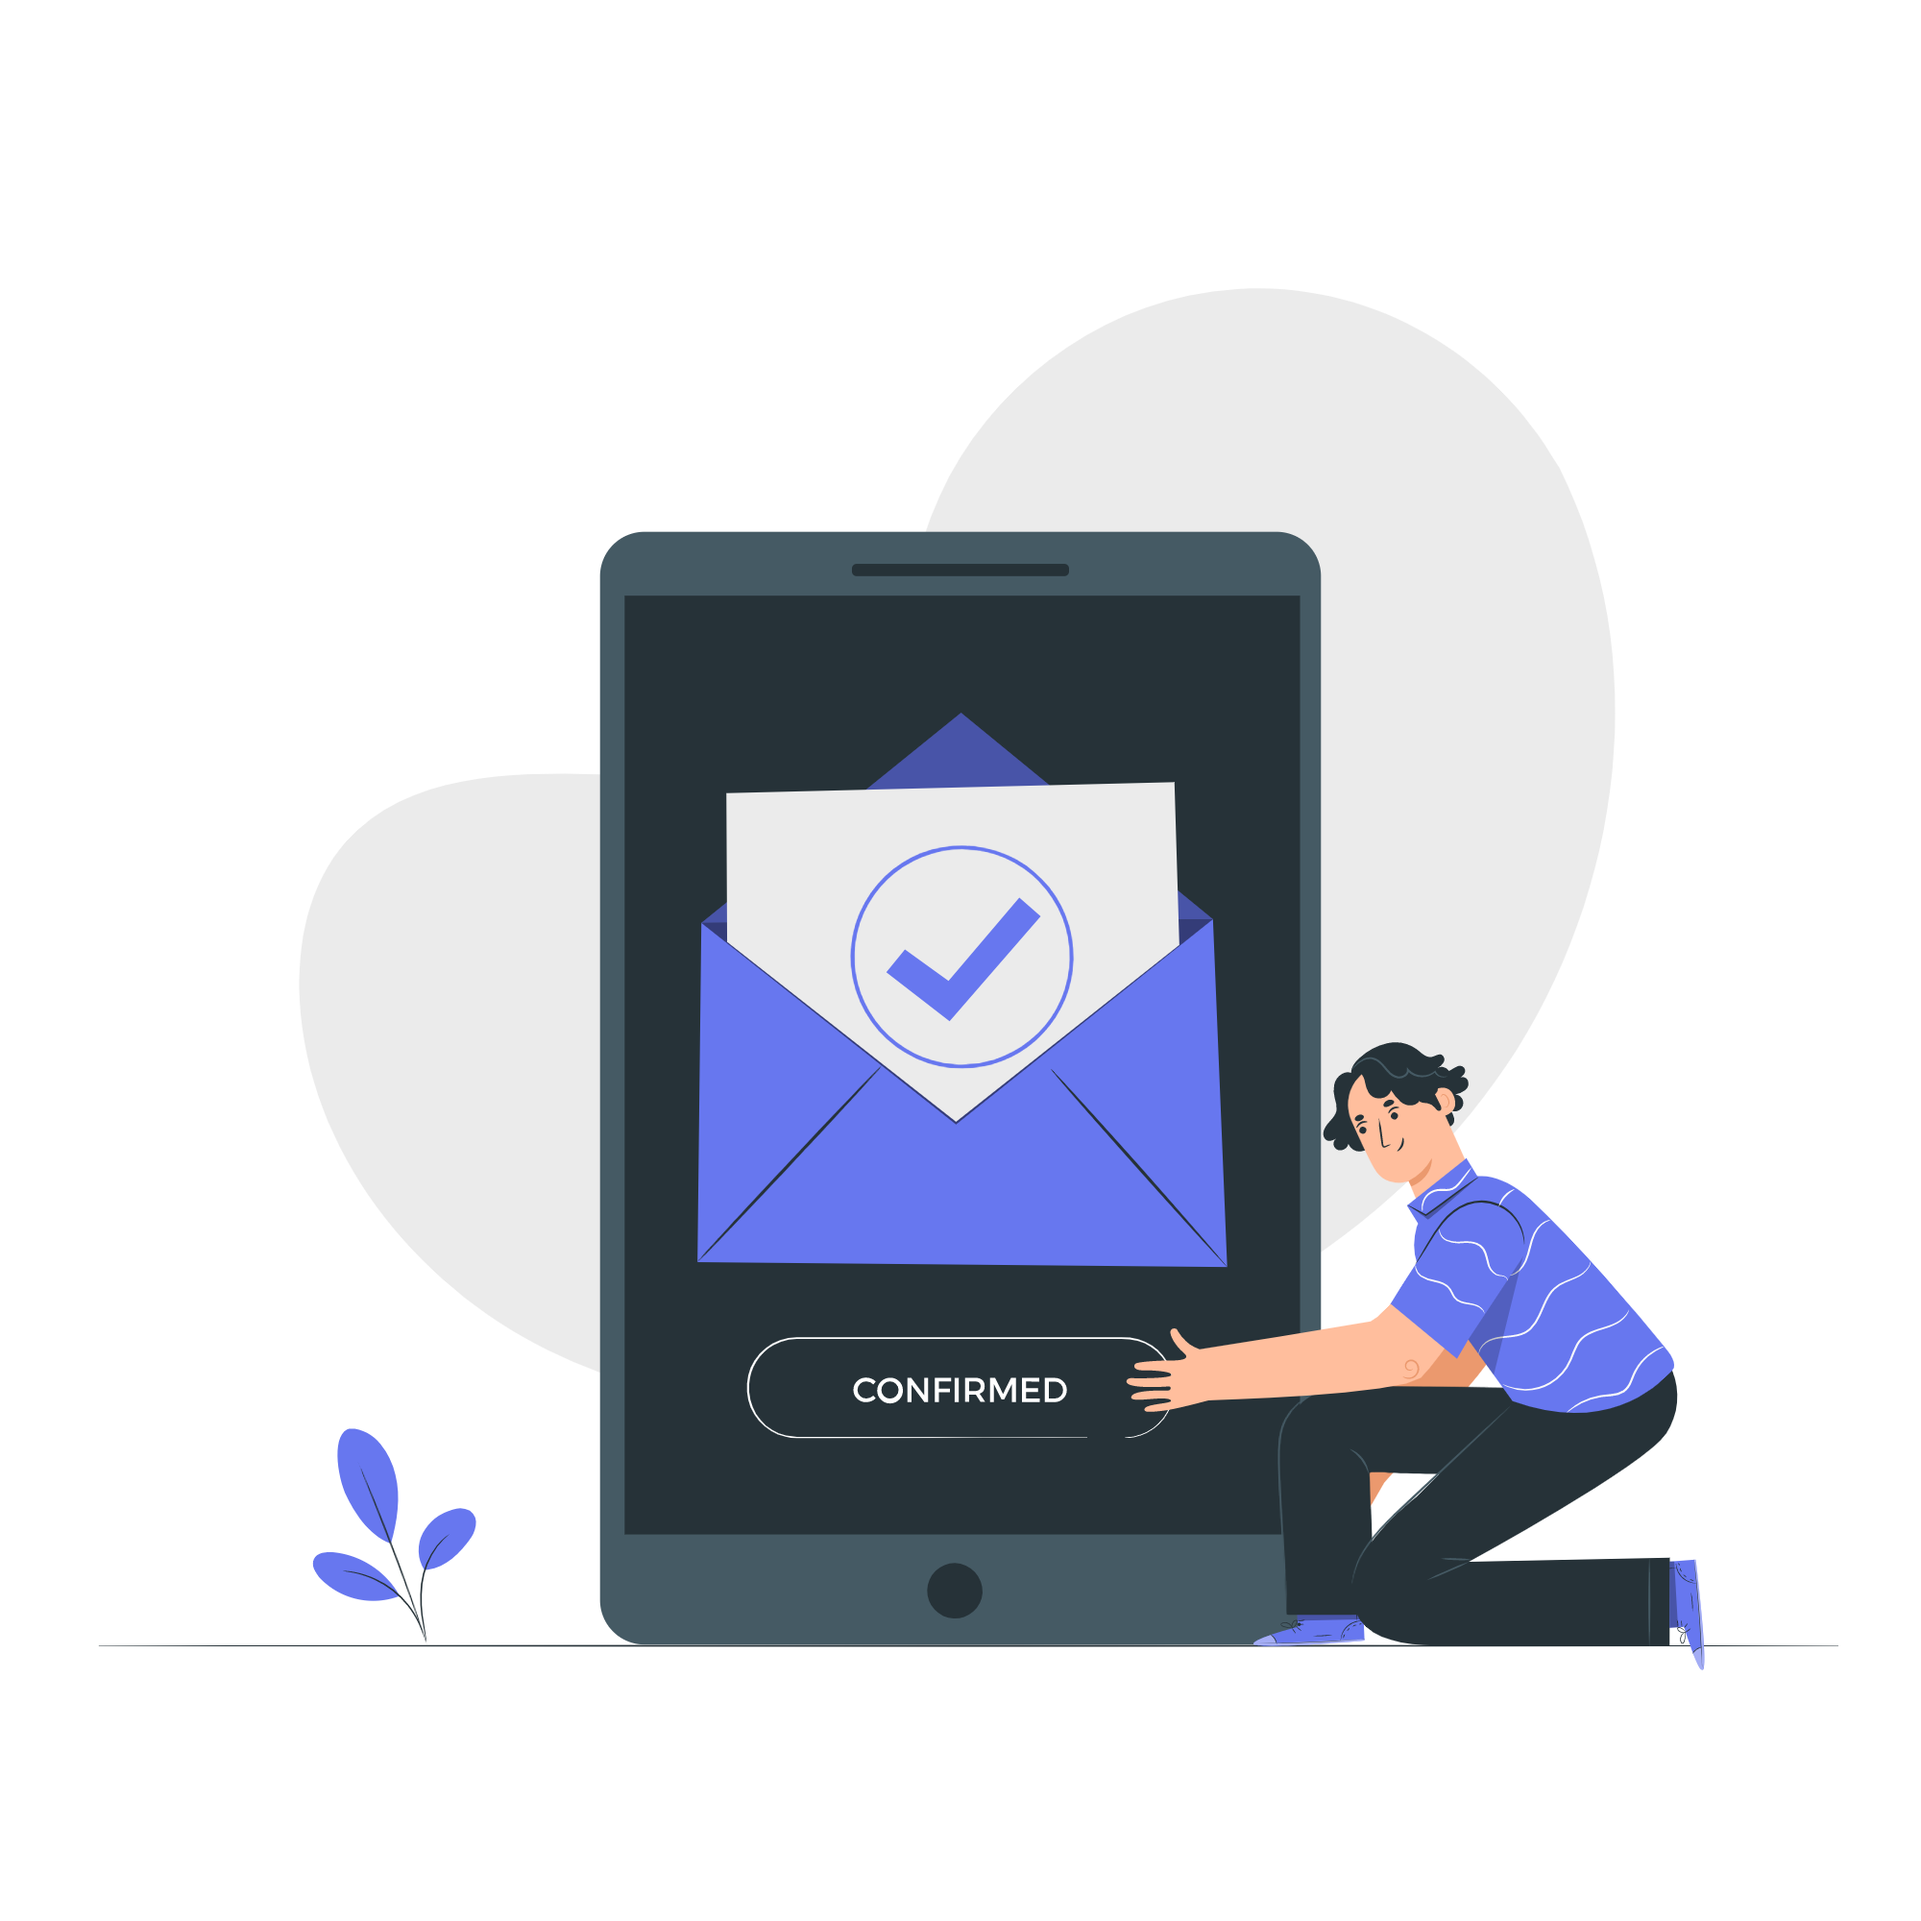
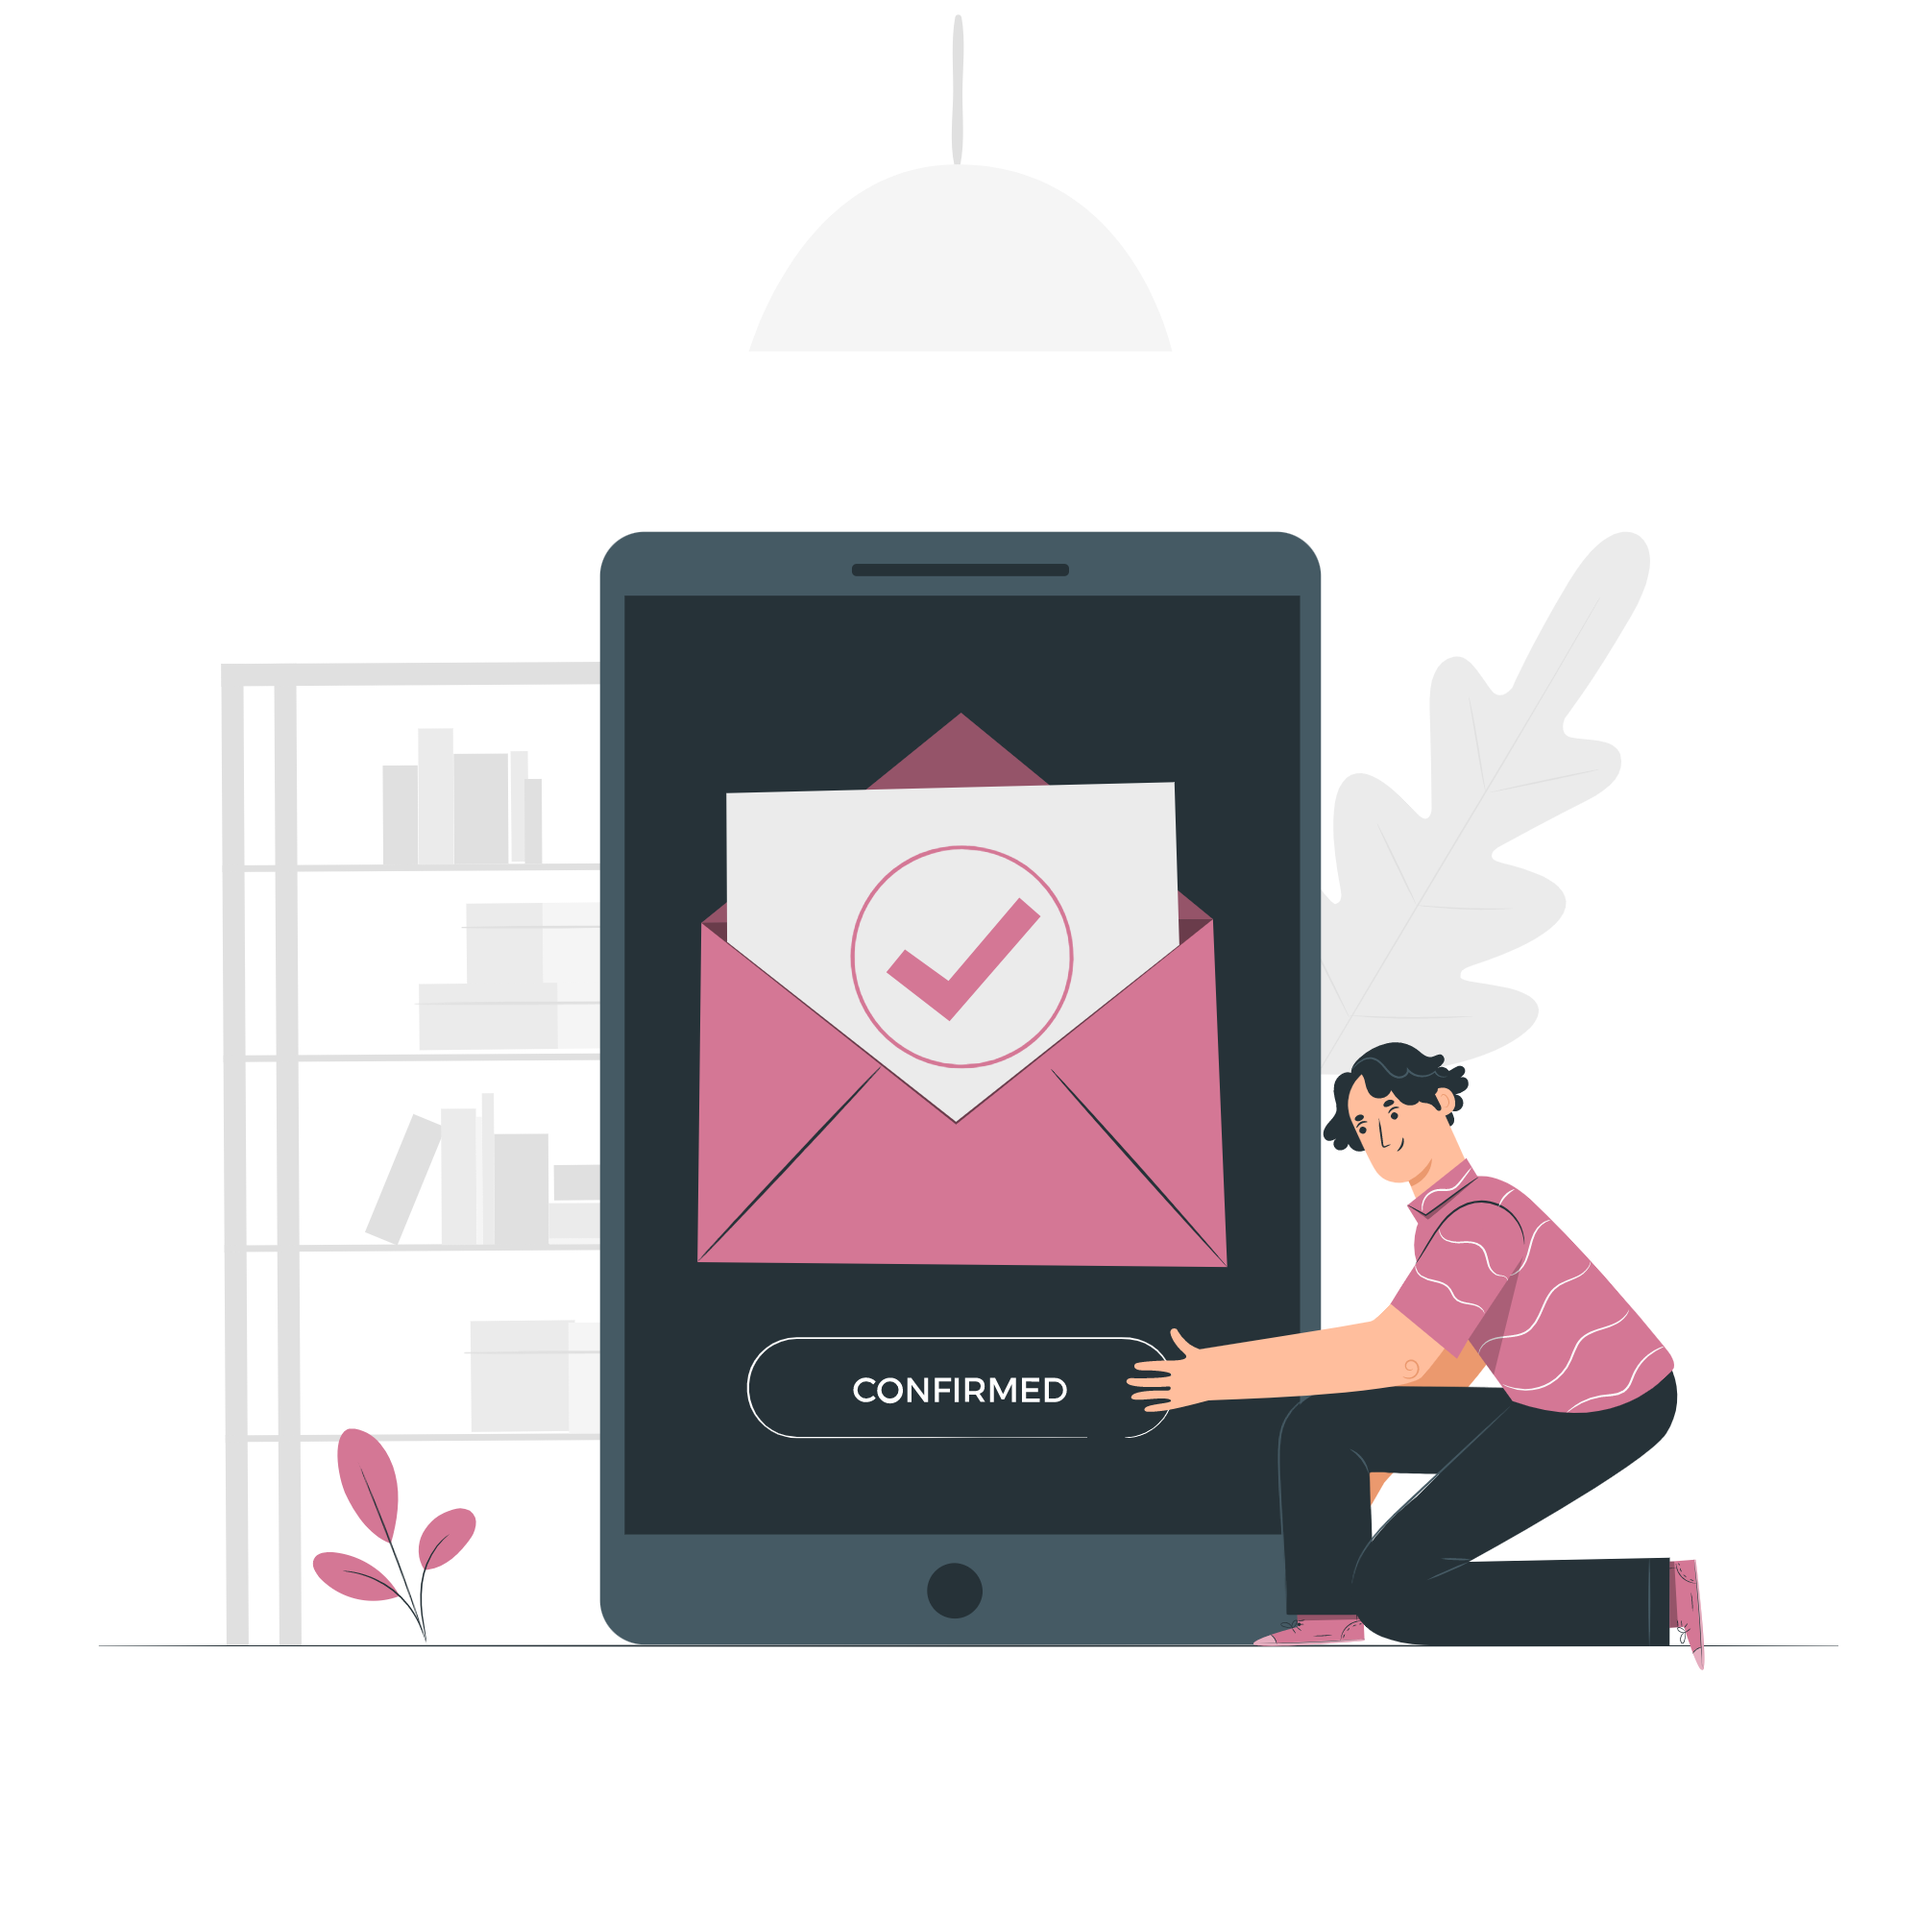
edit tutorial

diff --git a/public/fe/css/style.css b/public/fe/css/style.css
@@ -40,7 +40,7 @@
 
     .header-2-2 .btn-fill {
     font: 600 18px / normal Poppins, sans-serif;
-    background-color: #ebd5d5;
+    background-color: #cda1a1;
     border-radius: 12px;
     padding: 12px 32px;
     transition: 0.3s;
@@ -676,7 +676,7 @@
 
         .content-2-2 .btn-fill {
             font: 600 18px / normal Poppins, sans-serif;
-            background-color: #ebd5d5;
+            background-color: #cda1a1;
             border-radius: 12px;
             padding: 12px 32px;
             transition: 0.3s;
@@ -920,7 +920,7 @@
 
         .content-4-2 .btn-fill {
             font: 600 18px / normal Poppins, sans-serif;
-            background-color: #ebd5d5;
+            background-color: #cda1a1;
             border-radius: 12px;
             padding: 12px 32px;
             transition: 0.3s;

diff --git a/public/assets/css/style.css b/public/assets/css/style.css
@@ -648,7 +648,7 @@ select.form-control:not([size]):not([multiple]) {
     .card .card-header h4 {
       font-size: 16px;
       line-height: 28px;
-      color: #ebd5d5;
+      color: #000;
       padding-right: 10px;
       margin-bottom: 0; }
       .card .card-header h4 + .card-header-action,
@@ -1316,7 +1316,7 @@ h6 .badge {
 
 .btn-primary, .btn-primary.disabled {
   box-shadow: 0 2px 6px #acb5f6;
-  background-color: #ebd5d5;
+  background-color: #e3b2b2;
   border-color: #ebd5d5; }
   .btn-primary:focus, .btn-primary.disabled:focus {
     background-color: #394eea !important; }

diff --git a/resources/views/detail-kost.blade.php b/resources/views/detail-kost.blade.php
@@ -108,7 +108,7 @@ p.required-field::after {
                             @endif
                             <br>
                             @auth
-                            <button type="submit" class="btn btn-fill px-5 text-white btn-block mb-3" style="width: 100%">
+                            <button type="submit" class="btn btn-fill px-5 text-black btn-block mb-3" style="width: 100%">
                                 Pesan Kamar
                             </button>
                             @else
@@ -133,16 +133,16 @@ p.required-field::after {
                         @endphp
                         @foreach ($tipe_kamars as $tipe_kamar)
                         <div class="col-lg-3">
-                            <h5 style="color:#ebd5d5">Tipe Kamar</h5>
+                            <h5 style="color:#000">Tipe Kamar</h5>
                                 <input type="hidden" name="id" value="{{ $tipe_kamar->kamar }}">
                                 <div class="owner" style="margin-bottom: 0.5rem">{{ $tipe_kamar->nama }}</div>
                         </div>
                         <div class="col-lg-3">
-                                <h5 style="color:#ebd5d5">Deskripsi</h5>
+                                <h5 style="color:#000">Deskripsi</h5>
                                 <p>Berada di lantai {{ $tipe_kamar->lantai }} dan memiliki ukuran kamar {{ $tipe_kamar->ukuran }} </p>
                         </div>
                         <div class="col-lg-8">
-                        <h5 style="color:#ebd5d5">Fasilitas</h5>
+                        <h5 style="color:#000">Fasilitas</h5>
                         @foreach ($tipe_kamar->fasilitas->chunk(3) as $facilityy)
                             @php $incrementRoomType = 0 @endphp
                             @forelse ($facilityy as $facility)

diff --git a/resources/views/pages/user/profil/view.blade.php b/resources/views/pages/user/profil/view.blade.php
@@ -111,7 +111,7 @@ label:hover {
                         <div class="col-md-4 border-right">
                             <div class="d-flex flex-column align-items-center text-center p-3 py-3">
                                 @if ($u->avatar != null)
-                                    <img src="{{ Storage::url($u->avatar) }}" width="200px" height="200px" alt="foto"
+                                    <img src="{{ asset('storage/'.$u->avatar) }}" width="200px" height="200px" alt="foto"
                                     style="rounded-circle mt-5">
                                 @else
                                     <img src="{{ asset('assets/img/avatar/avatar-4.png') }}" width="200px" height="200px" alt="foto"

diff --git a/config/database.php b/config/database.php
@@ -48,7 +48,7 @@ return [
             'url' => env('DATABASE_URL'),
             'host' => env('DB_HOST', '127.0.0.1'),
             'port' => env('DB_PORT', '3306'),
-            'database' => env('DB_DATABASE', 'boardinghouse_dbkos'),
+            'database' => env('DB_DATABASE', 'sikos'),
             'username' => env('DB_USERNAME', 'boardinghouse_adminkos'),
             'password' => env('DB_PASSWORD', 'AdminKosGanteng'),
             'unix_socket' => env('DB_SOCKET', ''),

diff --git a/resources/views/landing.blade.php b/resources/views/landing.blade.php
@@ -423,9 +423,9 @@ p.testimonial-body {
                 <img src="{{ asset('fe/img/login.png') }}" style="width:200px; height:200px"
                 alt="" />
             </div>
-            <h3 class="icon-title">Pendaftaran Akun</h3>
+            <h3 class="icon-title">Login Akun</h3>
             <p class="icon-caption">
-                Anda perlu mendaftar<br />
+                Anda perlu login<br />
                 ke dalam sistem
             </p>
             </div>

diff --git a/app/User.php b/app/User.php
@@ -65,7 +65,7 @@ class User extends Authenticatable implements MustVerifyEmail
     {
         $avatar = null;
         if($this->avatar == 'avatar'){
-            $avatar = public_path('assets/storage/assets/avatar/'.$this->avatar);
+            $avatar = public_path('/assets/avatar/'.$this->avatar);
         }
         return $avatar;
     }
